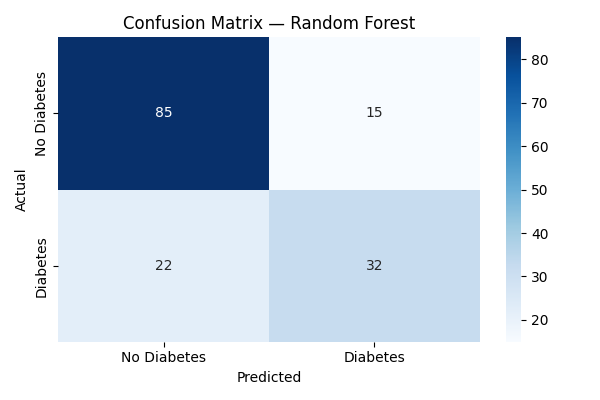
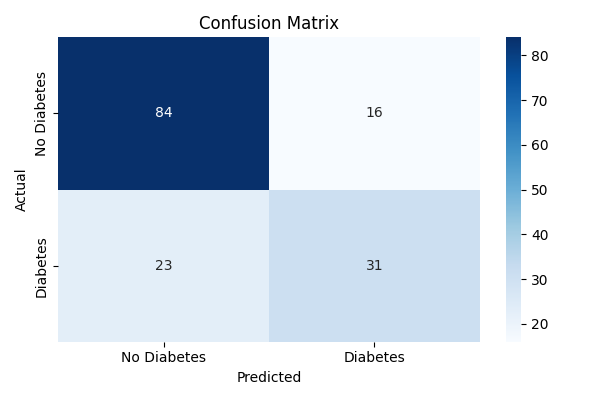
changes in readme

diff --git a/train.py b/train.py
@@ -8,6 +8,7 @@ import numpy as np
 import matplotlib.pyplot as plt
 import seaborn as sns
 import pickle
+import shap
 import os
 
 from sklearn.pipeline import Pipeline
@@ -169,9 +170,41 @@ def evaluate(pipeline: Pipeline, X_test, y_test,
         'cv_auc'    : f"{cv_auc.mean():.3f} ± {cv_auc.std():.3f}"
     }
 
+# ============================================================
+# FUNCTION 6 — SHAP Feature Importance Plot
+# ============================================================
+def shap_plot(pipeline: Pipeline, X_train) -> None:
+    """Generate SHAP feature importance plot."""
+    print("\n📊 Generating SHAP feature importance plot...")
+
+    # Get the trained model from pipeline
+    rf_model = pipeline.named_steps['model']
+
+    # Transform training data through imputer + scaler only
+    X_train_transformed = pipeline[:-1].transform(X_train)
+
+    # Create SHAP explainer
+    explainer   = shap.TreeExplainer(rf_model)
+    shap_values = explainer.shap_values(X_train_transformed)
+
+    # Plot — use index 1 for Diabetes class
+    plt.figure()
+    shap.summary_plot(
+        shap_values[:, :, 1] if len(
+            np.array(shap_values).shape) == 3 else shap_values[1],
+        X_train_transformed,
+        feature_names=FEATURE_NAMES,
+        show=False
+    )
+    plt.title('Feature Importance — SHAP Values')
+    plt.tight_layout()
+    plt.savefig(os.path.join(BASE_DIR, 'shap_importance.png'),
+                bbox_inches='tight', dpi=150)
+    plt.close()
+    print("✅ SHAP plot saved as shap_importance.png!")
 
 # ============================================================
-# FUNCTION 6 — Save Artifacts
+# FUNCTION 7 — Save Artifacts
 # ============================================================
 def save_artifacts(pipeline: Pipeline) -> None:
     """Save trained pipeline to disk."""
@@ -202,7 +235,10 @@ if __name__ == '__main__':
     # Step 5 — Evaluate
     metrics = evaluate(pipeline, X_test, y_test, X, y)
 
-    # Step 6 — Save
+    # Step 6 — SHAP plot
+    shap_plot(pipeline, X_train)
+
+    # Step 7 — Save
     save_artifacts(pipeline)
 
     print("\n" + "=" * 50)

diff --git a/README.md b/README.md
@@ -105,7 +105,10 @@ Then open your browser and go to: **http://localhost:5000**
 
 ## 📊 Project Visualizations[[1](https://www.google.com/url?sa=E&q=https%3A%2F%2Fgithub.com%2FYashika41%2FDisease-Prediction-ML)]
 
-### Confusion Matrix
+## 📊 Feature Importance (SHAP)
+![SHAP Feature Importance](shap_importance.png)
+
+## 📊 Confusion Matrix
 ![Confusion Matrix](confusion_matrix.png)
 
 ### Correlation Heatmap